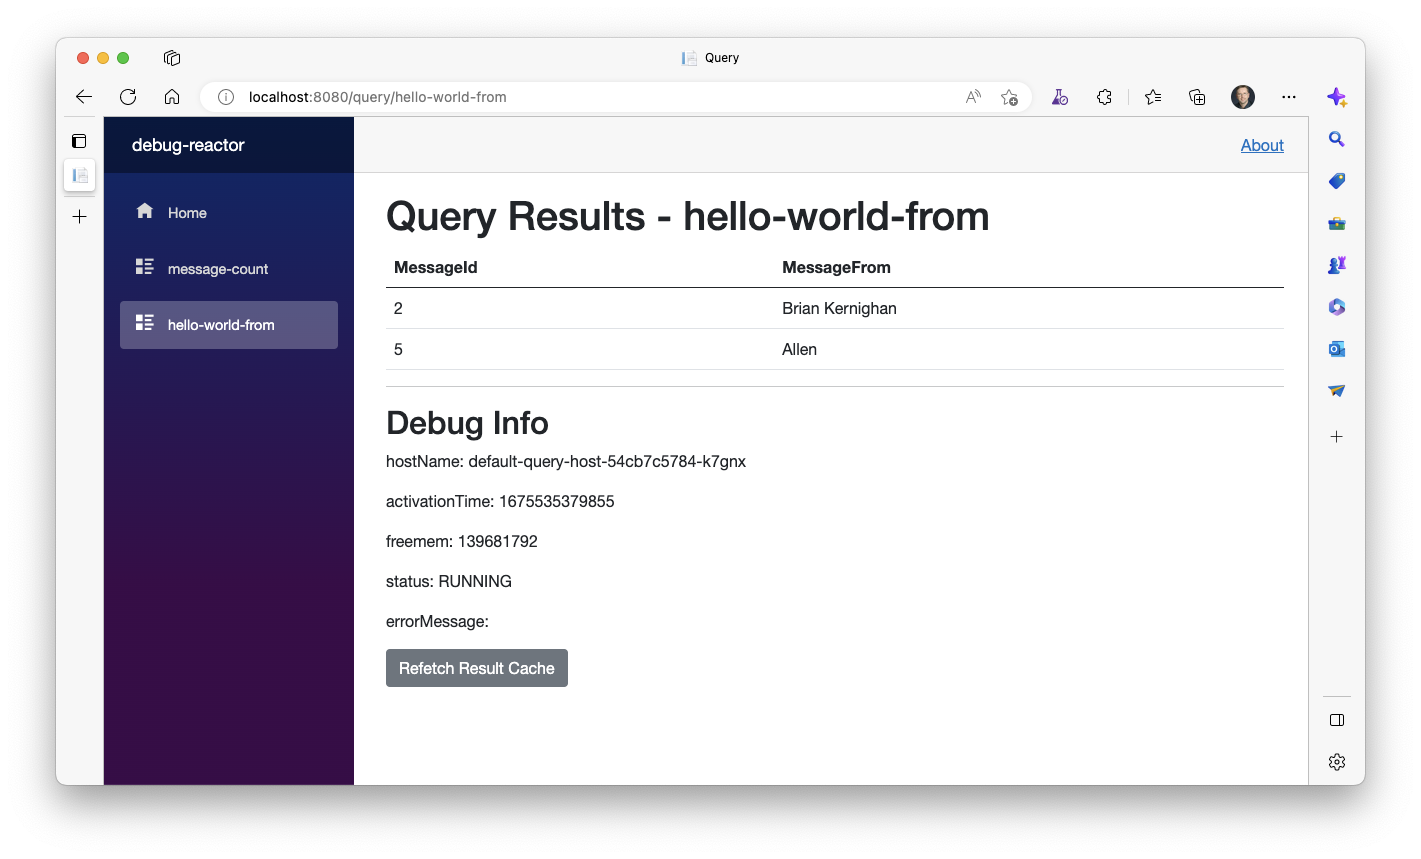
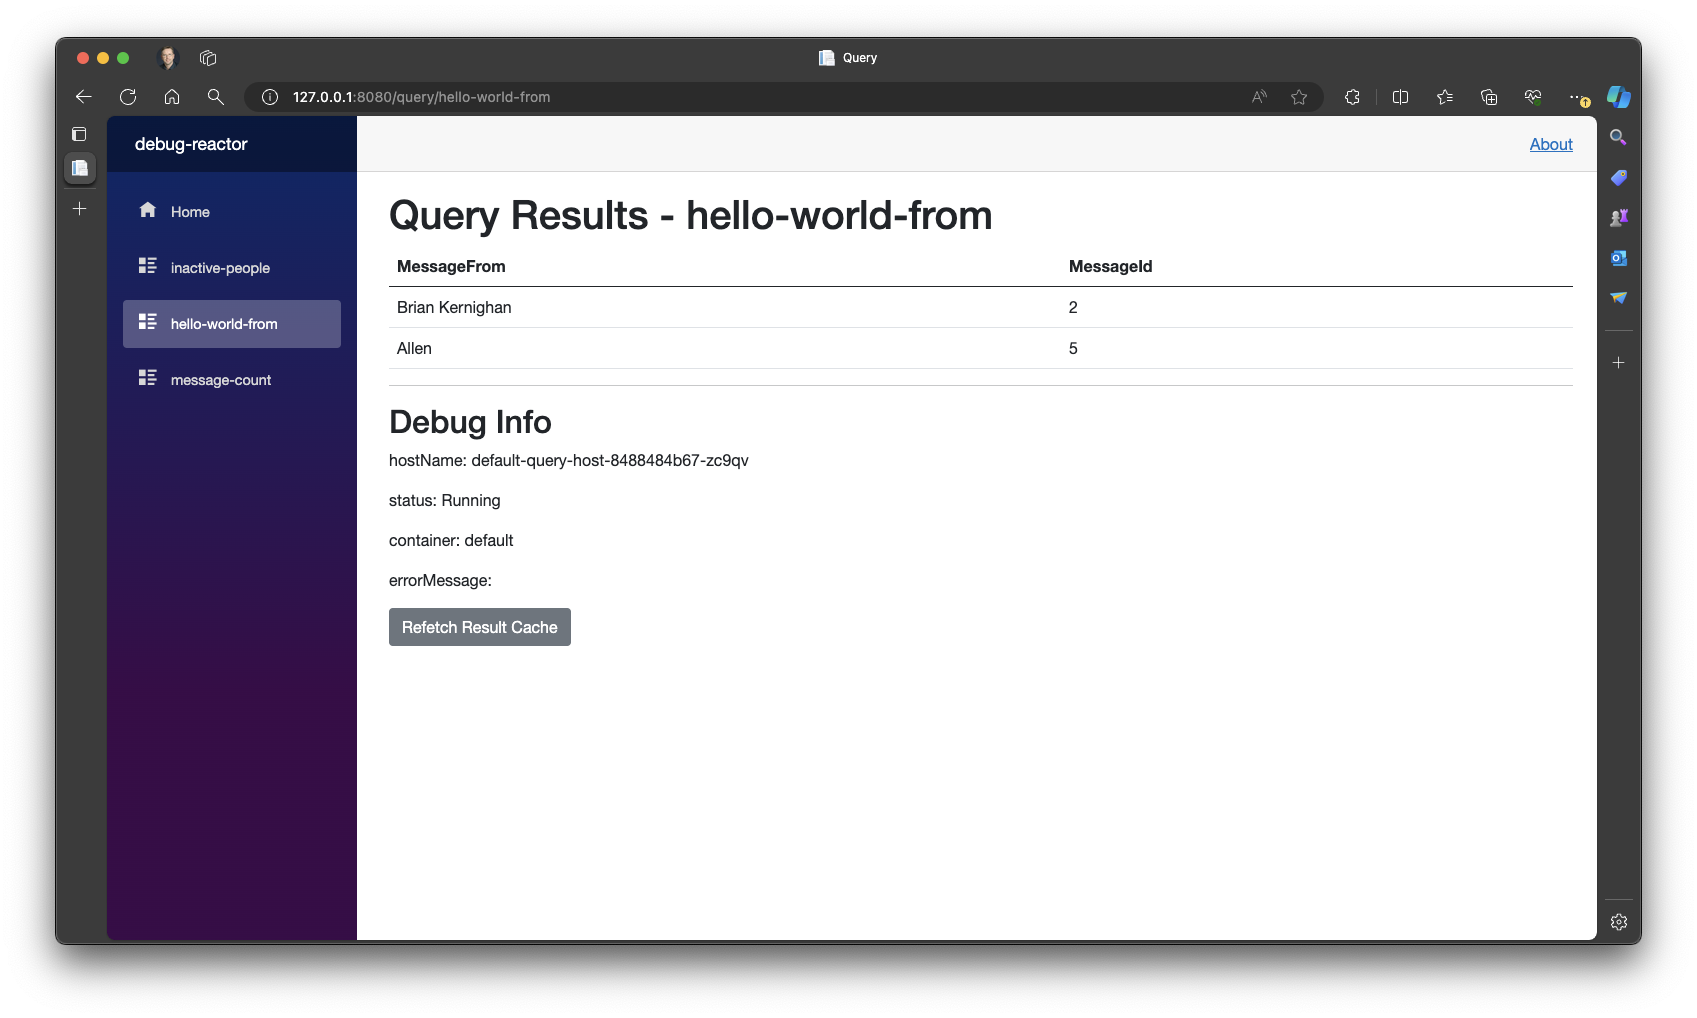
Update testing section to include new query

Changed region(s): [[0.0, 0.0303, 0.9909, 0.9686], [0.5574, 0.3027, 0.6502, 0.4237]]

diff --git a/docs/content/solution-developer/getting-started/_index.md b/docs/content/solution-developer/getting-started/_index.md
@@ -20,9 +20,10 @@ In this sample Drasi solution, the source of data (and change) will be a `Messag
 |From|character varying(50)|The name of who the message is from.|
 |Message|character varying(200)|The text of the message.|
 
-You will create two Continuous Queries that observe the `Message` table to answer the following questions in real-time:
+You will create three Continuous Queries that observe the `Message` table to answer the following questions in real-time:
 1. Which people have sent the message "Hello World"? 
 1. How many times has the same message been sent? 
+1. Which people haven't sent a message in the last 10 seconds?
 
 Initially, the `Message` table will contain the following messages:
 
@@ -55,24 +56,26 @@ To complete the tutorial, you will be guided through the following steps:
 ## Step 1 - Deploy Drasi
 To complete the Hello World tutorial, you need a Drasi environment. The quickest and easiest way to get  one suitable for the tutorial is to use a [Visual Studio Code Dev Container](https://code.visualstudio.com/docs/devcontainers/containers) we have created for the tutorial. 
 
-To use the Drasi Dev Container, you will need:
+To use the Drasi Dev Container, you will need to install:
 - [Visual Studio Code](https://code.visualstudio.com/) (or [Insiders Edition](https://code.visualstudio.com/insiders))
+- Visual Studio Code [Dev Containers extension](https://marketplace.visualstudio.com/items?itemName=ms-vscode-remote.remote-containers) 
 - A [git CLI ](https://cli.github.com/) if you are going to download the Dev Container from the Drasi repo
+- Docker
 
 To download the Dev Container files:
 1. Open a terminal window
 1. Create and/or change to a folder where you want to put the Dev Container files
-1. Download the Dev Container files either from the Drasi repo using `git` or as a `zip` file from Azure Storage:
+1. Download the Dev Container files either as a `zip` file from Azure Storage or from the Drasi repo using `git`:
 
 {{< tabpane >}}
+{{% tab header="zip" text=true %}}
+1. Download the [Dev Container ZIP file](https://drasi.blob.core.windows.net/tutorials/quickstart-dev-container.zip)
+1. Unzip the Dev Container ZIP file in the folder you created above
+{{< /tab >}}
 {{< tab header="git" lang="Bash" >}}
 git clone --filter=blob:none --sparse -b preview https://azure-octo@dev.azure.com/azure-octo/Incubations/_git/ReactiveGraph drasi
 cd drasi
 git sparse-checkout add tutorial
-{{< /tab >}}
-{{% tab header="zip" text=true %}}
-1. Download the [Dev Container ZIP file](https://drasi.blob.core.windows.net/tutorials/quickstart-dev-container.zip)
-1. Unzip the Dev Container ZIP file in the current folder
 {{< /tab >}}
 {{< /tabpane >}}
 
@@ -92,7 +95,13 @@ Once you are in VS Code, run the Dev Container as follows:
 2. Type "dev containers:"
 3. Select "Dev Containers: Rebuild and Reopen in Container"
 
-The Drasi Dev Container may take some time to initialize because it needs to download multiple images, install PostgreSQL, and install Drasi and its dependencies.
+The Drasi Dev Container will take some time to initialize because it needs to download multiple images, install PostgreSQL, and install Drasi and its dependencies. 
+
+When you see the following message in the Dev Container terminal, the Dev Container is ready to use and you can proceed with the rest of the tutorial.
+
+```
+Done. Press any key to close the terminal.
+```
 
 #### Alternatives to the Drasi Dev Container
 If you cannot or do not want to use a Dev Container to run this Quickstart Tutorial, we recommend you install Drasi on a local Kubernetes environment such as [Kind](/reference/using-kind/) and [deploy Drasi from pre-built Preview Images](/administrator/platform-deployment/from-preview-images/). You can also explore other options by going to the [Deploying Drasi](/administrator/platform-deployment/) section.
@@ -108,31 +117,29 @@ kind: Source
 name: hello-world
 spec:
   kind: PostgreSQL
-  host: <db-host-name>
+  host: postgres
   port: 5432
-  user: <db-user>
-  password: <db-password>
+  user: test
+  password: test
   database: hello-world
   ssl: true
   tables:
     - public.Message
 ```
 
-The configuration settings in angled brackets `<...>` are values you need to provide based on the configuration of your PostgreSQL database. 
-
-If you are using the Dev Container, it comes with a fully specified Source file named `/tutorial/getting-started/resources/hello-world-source.yaml` that is pre-configured to connect to the PostgreSQL database running on the Dev Container. Run the `drasi` CLI to create the Drasi Source using the following command:
+If you are using the Dev Container, use the `drasi` CLI to create the Source by running the following command in a terminal window:
 
 ```bash
 drasi apply -f ./resources/hello-world-source.yaml
 ```
 
-Otherwise, you must create a file named `hello-world-source.yaml` that contains the YAML above and replace the missing values based on the following information:
+If you are not using the Dev Container, you must first create a file named `hello-world-source.yaml` that contains the YAML above and replace the connection and user settings as described in this table. These settings will already be correct if you used the PostgreSQL database configuration described in the [Using PostgreSQL](/reference/setup-postgres) section:
 
-|Value|Description|
+|Property|Description|
 |-|-|
-|\<db-host-name>|The DNS host name of the PostgreSQL server.<br />This will be '**postgres**' if using the Kubernetes hosted PostgreSQL database described in the [Using PostgreSQL](/reference/setup-postgres) section.|
-|\<db-user>|The User ID that the Source will use to connect to the PostgreSQL database.<br />This will be '**test**' if using the Kubernetes hosted PostgreSQL database described in the [Using PostgreSQL](/reference/setup-postgres) section.|
-|\<db-password>|The Password for the User ID that the Source will use to connect to the PostgreSQL database.<br />This will be '**test**' if using the Kubernetes hosted PostgreSQL database described in the [Using PostgreSQL](/reference/setup-postgres) section.<br />**Note**: It is also possible to reference a Kubernetes secret for this value, see [Sources](/solution-developer/components/sources) for more details.|
+|spec.host|The DNS host name of the PostgreSQL server.|
+|spec.user|The User ID that the Source will use to connect to the PostgreSQL database.|
+|spec.password|The Password for the User ID that the Source will use to connect to the PostgreSQL database.<br />**Note**: It is also possible to reference a Kubernetes secret for this value, see [Sources](/solution-developer/components/sources) for more details.|
 |ssl|If you deployed your PostgreSQL database in your Kubernetes cluster, make sure to set the `ssl` configuration option to `false`. |
 
 Once the values are updated and the `hello-world-source.yaml` saved, use the `drasi` CLI to create the Source with the following command:
@@ -195,13 +202,38 @@ spec:
     RETURN 
       m.Message AS Message,
       count(m.Message) AS Frequency
+---
+apiVersion: v1
+kind: ContinuousQuery
+name: inactive-people
+spec:
+  mode: query
+  sources:    
+    subscriptions:
+      - id: hello-world
+  query: >
+      MATCH
+        (m:Message)
+      WITH
+        m.From AS MessageFrom,
+        max(drasi.changeDateTime(m)) AS LastMessageTimestamp
+      WHERE
+        LastMessageTimestamp <= datetime.realtime() - duration({ seconds: 10 })
+      OR
+        drasi.trueLater(LastMessageTimestamp <= datetime.realtime() - duration({ seconds: 10 }), LastMessageTimestamp + duration({ seconds: 10 }))
+      RETURN
+        MessageFrom,
+        LastMessageTimestamp
 ```
 
-Notice that the YAML describes two Continuous Queries. You can define any number of Drasi Sources, Continuous Queries, and Reactions in a single YAML file as long as you separate each definition with a line containing `---`.
+Notice that the YAML describes three Continuous Queries. You can define any number of Drasi Sources, Continuous Queries, and Reactions in a single YAML file as long as you separate each definition with a line containing `---`.
 
-In the first Continuous Query, named `hello-world-from`, the Cypher Query is simply matching nodes with a label (type) `Message` and filtering for only those that have a `Message` field containing the value "Hello World". For records that match that pattern, it includes their `MessageId` and `From` fields in the query result.
-
-In the second Continuous Query, named `message-count`, the Cypher Query is aggregating the count of the number of times each message has been sent. For each message, the query result will contain the `Message` and its `Frequency`.
+The following table describes the Cypher Query used by each of the Continuous Queries:
+|Query|Description|
+|-|-|
+|hello-world-from|Matches all nodes with a label (type) `Message` and filters for only those that have a `Message` field containing the value "Hello World". For records that match that pattern, it includes their `MessageId` and `From` fields in the query result.|
+|message-count|Matches all nodes with a label (type) `Message` and counts the number of times `Message` nodes with the same value in their `Message` field. For each unique message value, the query result will contain the message value and its `Frequency`.|
+|inactive-people|Matches all nodes with a label (type) `Message` and uses the time when the `Message` was added to the database to represent that `LastMessageTimestamp` for the person that sent the message. The query uses the [drasi.trueLater](solution-developer/query-language/#drasi-future-functions) function to only include people that haven't sent messages in the last 10 seconds to be included in the query result.|
 
 You don't need to change this YAML, but this table describes the most important configuration settings in these Continuous Query definitions. 
 
@@ -212,13 +244,13 @@ You don't need to change this YAML, but this table describes the most important 
 |spec.source.subscriptions.id| Identifies the **id** of the Source the Continuous Query will subscribe to as a source of change data. In this instance, the **id** "hello-world" refer to the PostgreSQL Source created in the previous step.|
 |spec.query|Contains the [Cypher Query](/solution-developer/query-language/) that defines the behavior of the Continuous Query i.e. which changes it is detecting and the content of its result set.|
 
-If you are using the Dev Container, use the `drasi` CLI to create the Continuous Queries using the following command:
+If you are using the Dev Container, use the `drasi` CLI to create the Continuous Queries by running the following command in a terminal window:
 
 ```bash
 drasi apply -f ./resources/hello-world-queries.yaml
 ```
 
-Otherwise, create a file named `hello-world-queries.yaml` from the content above and run the `drasi` CLI command:
+If you are not using the Dev Container, create a file named `hello-world-queries.yaml` from the content above and run the `drasi` CLI command:
 
 ```bash
 drasi apply -f hello-world-queries.yaml
@@ -265,13 +297,13 @@ You don't need to change this YAML, but this table describes the most important 
 |spec.queries|Subscribes this Reaction to the two Continuous Queries created in the previous step.|
 |spec.endpoints|Specifies the port name and number through which the Debug reaction Web UI is accessible.|
 
-If you are using the Dev Container, run the `drasi` CLI to create the Debug Reaction using the following command:
+If you are using the Dev Container, use the `drasi` CLI to create the Debug Reaction by running the following command in a terminal window:
 
 ```bash
 drasi apply -f ./resources/hello-world-reaction.yaml
 ```
 
-Otherwise, create a file named `hello-world-reaction.yaml` from the content above and run the `drasi` command:
+If you are not using the Dev Container, create a file named `hello-world-reaction.yaml` from the content above and run the `drasi` command:
 
 ```bash
 drasi apply -f hello-world-reaction.yaml
@@ -321,7 +353,7 @@ Now open your browser and navigate to [http://localhost:8080](http://localhost:8
 
 {{< figure src="debug-reaction-ui.png" alt="Debug Reaction UI" width="70%" >}}
 
-On the left hand side is a menu listing the two Continuous Queries created earlier. Select `hello-world-from` entry and the right hand pane will show the current results of the `hello-world-from` query. Initially, there is only one result, because only **Brian Kernighan** is associated with the "Hello World" message.
+On the left hand side is a menu listing the three Continuous Queries created earlier. Select `hello-world-from` entry and the right hand pane will show the current results of the `hello-world-from` query. Initially, there is only one result, because only **Brian Kernighan** is associated with the "Hello World" message.
 
 {{< figure src="hello-world-from-debug.png" alt="Hello World From" width="70%" >}}
 
@@ -335,7 +367,7 @@ You will see a second record for **Allen** appear dynamically in the query resul
 
 {{< figure src="hello-world-from-debug-updated.png" alt="Hello World From Updated" width="70%" >}}
 
-In the list of Continuous Queries select the `message-count` entry and the right hand pane will show the  current results to the `message-count` query. There are three results, as shown below. Note that because of the "Hello World" message you just added for **Allen**, both "Hello World" and "I am Spartacus" have a Frequency of 2.
+In the list of Continuous Queries select the `message-count` entry and the right hand pane will show the current results to the `message-count` query. There are three results, as shown below. Note that because of the "Hello World" message you just added for **Allen**, both "Hello World" and "I am Spartacus" have a Frequency of 2.
 
 {{< figure src="message-count-debug.png" alt="Message Count" width="70%" >}}
 
@@ -349,7 +381,25 @@ You will see the "I am Spartacus" Frequency increase dynamically to 3:
 
 {{< figure src="message-count-debug-updated.png" alt="Message Count Updated" width="70%" >}}
 
-Finally, if you delete both "Hello World" messages using the following SQL statement:
+In the list of Continuous Queries select the `inactive-people` entry and the right hand pane will show the current results to the `inactive-people` query. Assuming you issued the last database change more than 10 seconds ago, you will see **Allen** on the list of inactive people.
+
+{{< figure src="inactive-people-debug.png" alt="Initial Inactive People" width="70%" >}}
+
+If you add another Message to the table using the following SQL insert statement:
+
+```sql
+INSERT INTO public."Message" VALUES (7, 'Allen', 'Goodbye');
+```
+
+**Allen** will disappear from the list of inactive people, because he just sent the message:
+
+{{< figure src="inactive-people-debug-is-active.png" alt="Allen is active" width="70%" >}}
+
+But, if you wait 10 seconds, **Allen** will reappear on the list of inactive people, because he has not sent a message in the allowed 10 second time interval:
+
+{{< figure src="inactive-people-debug-is-inactive.png" alt="Allen is inactive" width="70%" >}}
+
+Finally, if you return to the `message-count` Continuous Query and delete both "Hello World" messages using the following SQL statement:
 
 ```sql
 DELETE FROM public."Message" WHERE "Message" = 'Hello World';
@@ -364,7 +414,7 @@ And if you switch back to the `hello-world-from` Continuous Query, the current r
 {{< figure src="hello-world-from-debug-deleted.png" alt="Message Count" width="70%" >}}
 
 ## Reflection
-In completing the tutorial, you were able to answer questions like "Which people have sent the message `Hello World`" and "How many times has each unique message been sent" using Continuous Queries to detect changes in a PostgreSQL database and distribute those changes to Reactions for further processing or integration into a broader solution. You did this with no custom code and a minimal amount of configuration information.
+In completing the tutorial, you were able to answer questions like "Which people have sent the message `Hello World`", "How many times has each unique message been sent", and "Which people haven't sent messages in the last 10 seconds" using Continuous Queries. Using the Continuous Queries `RESULT` clause, you were able to describe those changes to best meet your needs. And then you could distribute those changes to Reactions for further processing or integration into a broader solution. You did this with no custom code and a minimal amount of configuration information.
 
 Although the data and queries in the tutorial where trivial, the process is exactly the same for richer and more complex scenarios, only the Continuous Query increases in complexity and this depends totally on what question you are trying to answer.
 
